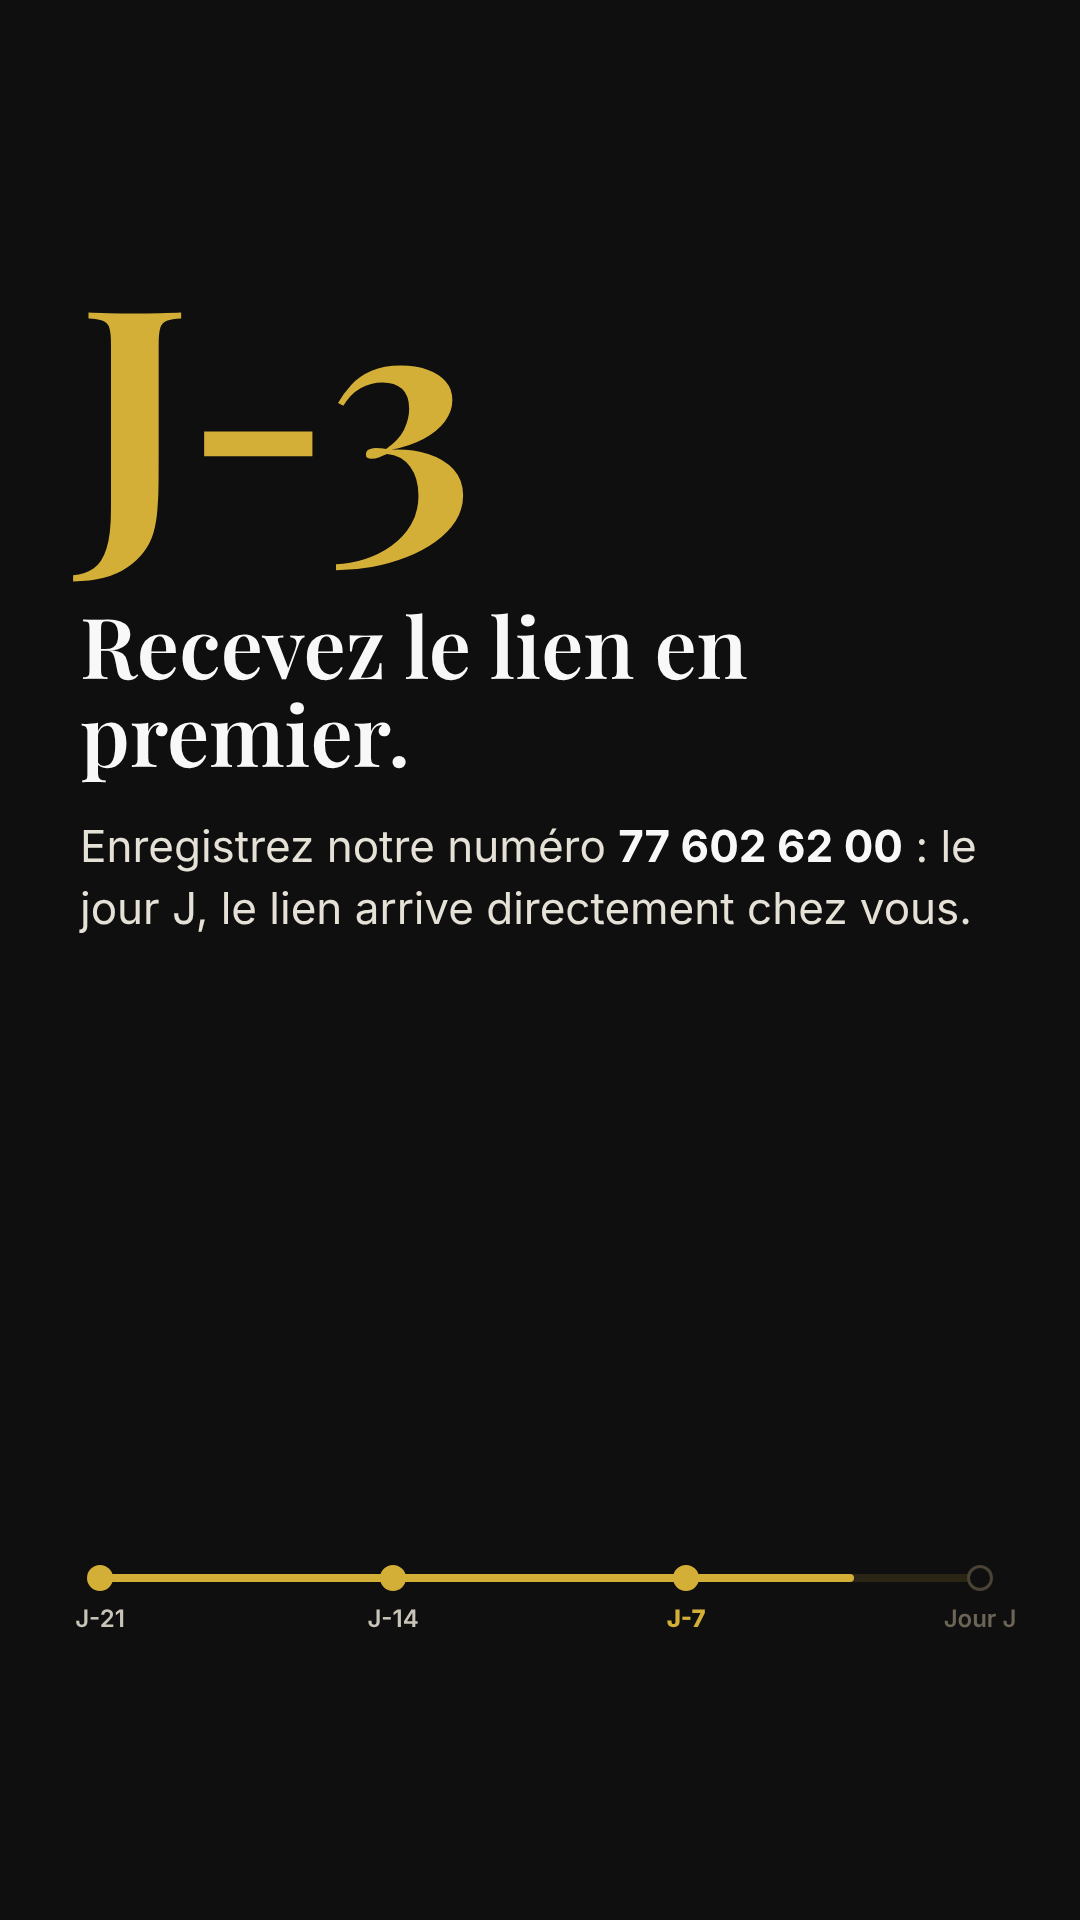
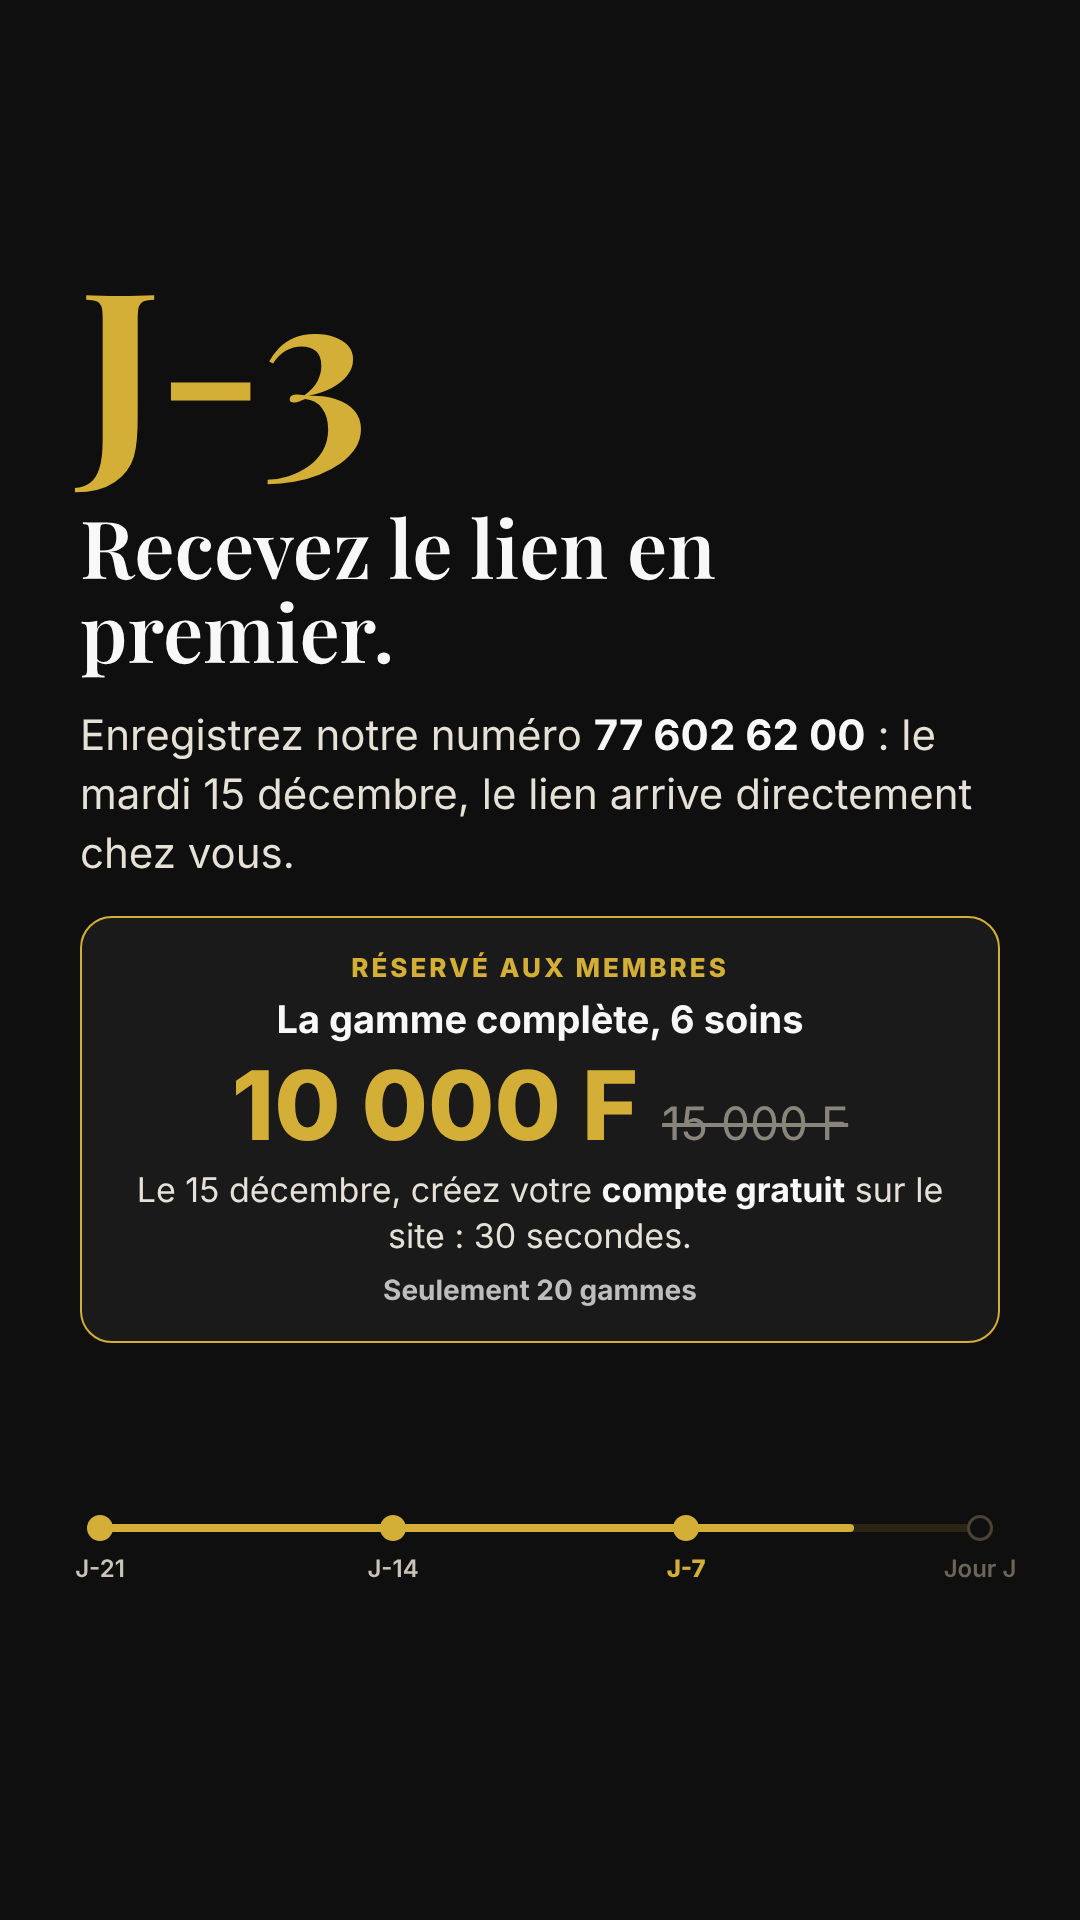
Campagne du 15 décembre validée : images définitives (5 réseaux) et promo de la gamme au prix membre
Retouche TikTok J-7 : « Ouverture le mardi 15 décembre ».

Claude-Session: https://claude.ai/code/session_01AJ1A2royRJkyTBVVnu2ynX

diff --git a/marketing/sources/lancement/03-J7-compte-a-rebours-tiktok-couverture.html b/marketing/sources/lancement/03-J7-compte-a-rebours-tiktok-couverture.html
@@ -5,7 +5,7 @@
 <div style="position:absolute;top:180px;left:70px;right:190px;display:flex;flex-direction:column;gap:26px">
   <span style="align-self:flex-start;background:#d4af37;color:#0f0f0f;font-size:34px;font-weight:800;padding:12px 26px;border-radius:14px">Partie 3 sur 4</span>
   <h1 style="margin:0;font-size:92px;font-weight:800;line-height:1.02;text-shadow:0 4px 30px rgba(0,0,0,.6)">7 jours avant le lancement : ce qui vous attend</h1>
-  <div style="display:flex;align-items:center;gap:34px"><span style="font-family:'Playfair Display',serif;font-size:170px;font-weight:700;color:#d4af37;line-height:1;margin-bottom:24px">J-7</span><span style="font-size:40px;font-weight:700;line-height:1.2">Mardi<br>15 décembre</span></div>
+  <div style="display:flex;align-items:center;gap:34px"><span style="font-family:'Playfair Display',serif;font-size:170px;font-weight:700;color:#d4af37;line-height:1;margin-bottom:24px">J-7</span><span style="font-size:40px;font-weight:700;line-height:1.2">Ouverture le<br>mardi 15 décembre</span></div>
   <div style="width:820px;box-sizing:border-box;background:rgba(15,15,15,.88);border:2px solid #d4af37;border-radius:32px;padding:34px 40px;display:flex;flex-direction:column;align-items:center;gap:14px;text-align:center"><span style="font-size:24px;font-weight:800;letter-spacing:3px;text-transform:uppercase;color:#d4af37;font-size:26px">Réservé aux membres</span><span style="font-size:38px;font-weight:700;line-height:1.2">La gamme complète, 6&nbsp;soins</span><div style="display:flex;align-items:baseline;gap:24px"><strong style="font-size:96px;font-weight:800;color:#d4af37;line-height:1">10 000 F</strong><s style="font-size:46px;color:#8a857b">15 000 F</s></div><span style="font-size:34px;line-height:1.35;color:#e6e1d6">Le 15 décembre, créez votre <strong style="color:#f8f8f8">compte gratuit</strong> sur le site&nbsp;: 30&nbsp;secondes.</span><span style="font-size:28px;font-weight:700;color:#bdbdbd">Seulement 20 gammes</span></div>
 </div>
 <div style="position:absolute;top:1400px;left:70px;right:190px"><div style="width:780px;padding:0 20px;box-sizing:border-box"><div style="position:relative;height:8px;border-radius:999px;background:#2b2516;margin-bottom:48px"><div style="width:66.6%;height:100%;border-radius:999px;background:#d4af37"></div><span style="position:absolute;left:0%;top:50%;transform:translate(-50%,-50%);width:26px;height:26px;border-radius:999px;background:#d4af37;border:3px solid #d4af37;box-sizing:border-box"></span><span style="position:absolute;left:0%;top:30px;transform:translateX(-50%);font-size:24px;font-weight:600;color:#c9c4b8;white-space:nowrap">J-21</span><span style="position:absolute;left:33.3%;top:50%;transform:translate(-50%,-50%);width:26px;height:26px;border-radius:999px;background:#d4af37;border:3px solid #d4af37;box-sizing:border-box"></span><span style="position:absolute;left:33.3%;top:30px;transform:translateX(-50%);font-size:24px;font-weight:600;color:#c9c4b8;white-space:nowrap">J-14</span><span style="position:absolute;left:66.6%;top:50%;transform:translate(-50%,-50%);width:26px;height:26px;border-radius:999px;background:#d4af37;border:3px solid #d4af37;box-sizing:border-box"></span><span style="position:absolute;left:66.6%;top:30px;transform:translateX(-50%);font-size:24px;font-weight:800;color:#d4af37;white-space:nowrap">J-7</span><span style="position:absolute;left:100%;top:50%;transform:translate(-50%,-50%);width:26px;height:26px;border-radius:999px;background:#0f0f0f;border:3px solid #4a4335;box-sizing:border-box"></span><span style="position:absolute;left:100%;top:30px;transform:translateX(-50%);font-size:24px;font-weight:600;color:#6b6457;white-space:nowrap">Jour J</span></div></div></div></div>

diff --git a/marketing/lancement/LISEZ-MOI.md b/marketing/lancement/LISEZ-MOI.md
@@ -1,34 +1,28 @@
-# Campagne de lancement du site · 21 jours, 4 réseaux
+# Campagne de lancement du site · 15 décembre 2026 · 5 réseaux
 
-Maquettes validées le 16 novembre 2026 (canevas « Dabo Hair — Accueil et gammes »). Le détail jour par jour est dans `00-calendrier-21-jours.png`.
+Images définitives, **validées le 18 novembre 2026** (version « offre réservée aux membres »). Sources HTML, légendes à copier, hashtags et liens mesurés : `marketing/sources/lancement/LISEZ-MOI.md`.
 
-| Phase | Jour | Instagram (1080 × 1350) | Statut WhatsApp, TikTok, Snapchat (1080 × 1920) |
+| Phase | Jour | Date | Fichiers (Instagram et Facebook 1080 × 1350 ; WhatsApp, TikTok, Snapchat 1080 × 1920) |
 |---|---|---|---|
-| 1 · Mystère | J-21 | `01-J21-mystere-instagram-publication.png` | `01-J21-mystere-whatsapp-statut.png`, `-tiktok-couverture.png`, `-snapchat.png` |
-| 2 · Révélation | J-14 | `02-J14-revelation-instagram-publication.png` | `02-J14-revelation-…` (3 fichiers) |
-| 3 · Compte à rebours | J-7 | `03-J7-compte-a-rebours-instagram-publication.png` | `03-J7-compte-a-rebours-…` (3 fichiers) |
-| | J-3 | `03-J3-compte-a-rebours-instagram-publication.png` | `03-J3-compte-a-rebours-…` (3 fichiers) |
-| | J-1 | `03-J1-compte-a-rebours-instagram-publication.png` | `03-J1-compte-a-rebours-…` (3 fichiers) |
-| 4 · Jour J | J | `04-JourJ-instagram-publication.png` | `04-JourJ-…` (3 fichiers) |
+| 1 · Mystère | J-21 | mardi 24 novembre | `01-J21-mystere-*.png` (5) |
+| 2 · Révélation | J-14 | mardi 1er décembre | `02-J14-revelation-*.png` (5) |
+| 3 · Compte à rebours | J-7 | mardi 8 décembre | `03-J7-compte-a-rebours-*.png` (5) |
+| | J-3 | samedi 12 décembre | `03-J3-compte-a-rebours-*.png` (5) |
+| | J-1 | lundi 14 décembre | `03-J1-compte-a-rebours-*.png` (5) |
+| 4 · Jour J | J | mardi 15 décembre | `04-JourJ-*.png` (5) |
 
-## Prêtes à publier
+Calendrier complet : `00-calendrier-21-jours.png`. Promotion de la gamme sur Instagram (prix membre) : `marketing/promo-gamme/`.
 
-Les phases 1 et 2 (8 images), les images TikTok, Snapchat et WhatsApp de J-7, J-3 et J-1 (9 images), et la couverture TikTok du Jour J.
+## Prêtes à publier tout de suite
 
-Le fil d'or continue de se remplir chaque jour de la dernière semaine : 67 % à J-7, 86 % à J-3, 95 % à J-1, 100 % le Jour J.
+J-21 et J-14 (10 images) : elles n'annoncent aucun prix.
 
-## À refaire avant de publier (textes provisoires entre crochets)
+## À ne PAS publier avant que…
 
-| Image | Texte provisoire | Il faut |
-|---|---|---|
-| `03-J7-…`, `03-J3-…`, `03-J1-compte-a-rebours-instagram-publication.png` | « Offre de lancement : [à confirmer avec Awa] » | l'offre de lancement |
-| `04-JourJ-instagram-publication.png` | « [domaine] · lien en bio » | le nom de domaine |
-| `04-JourJ-whatsapp-statut.png` | « [domaine] » | le nom de domaine |
-| `04-JourJ-snapchat.png` | « [domaine] » | le nom de domaine |
+| Images | Il faut |
+|---|---|
+| J-7, J-3, J-1, Jour J (prix membre 10 000 F) | que le site facture vraiment 10 000 F à un membre et 15 000 F sans compte, avec la gamme en un seul article |
+| Jour J : Instagram, Facebook, WhatsApp, Snapchat | le nom de domaine (décidé avec Awa), puis ré-export : `node marketing/outils/exporter.cjs marketing/sources/lancement marketing/lancement 04-` |
+| J-3 TikTok (avis de clientes) | l'accord écrit de chaque cliente filmée |
 
-## Rappels
-
-- Les **liens** ne sont jamais dans l'image : bio Instagram et TikTok, légende du statut WhatsApp, trombone Snapchat.
-- Chaque lien porte sa source pour la mesure : `?utm_source=instagram&utm_campaign=lancement` (puis `whatsapp`, `tiktok`, `snapchat`).
-- Statut WhatsApp de J-7 : demander aux clientes d'**enregistrer le numéro**, sinon la liste de diffusion du Jour J ne leur arrive pas.
-- Avis de clientes (J-3) : accord écrit de chacune avant publication.
+Les autres questions ouvertes (modalités de l'offre, heure d'ouverture, « 30 secondes ») sont dans le LISEZ-MOI des sources.
